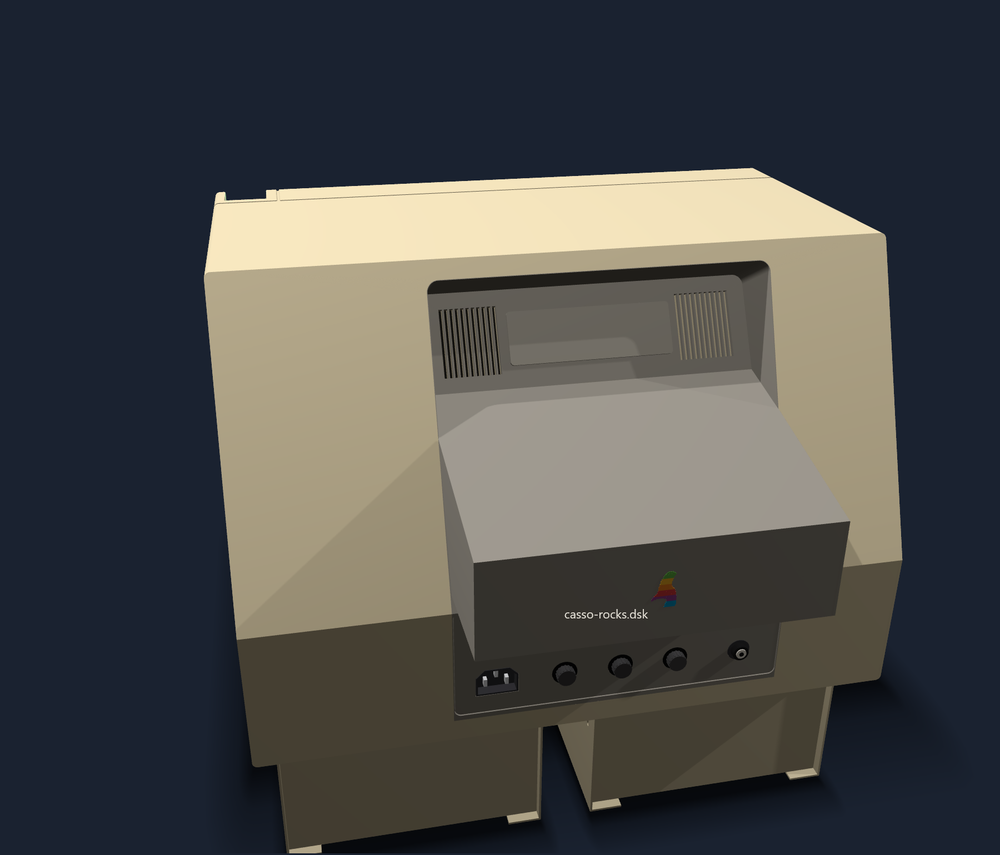
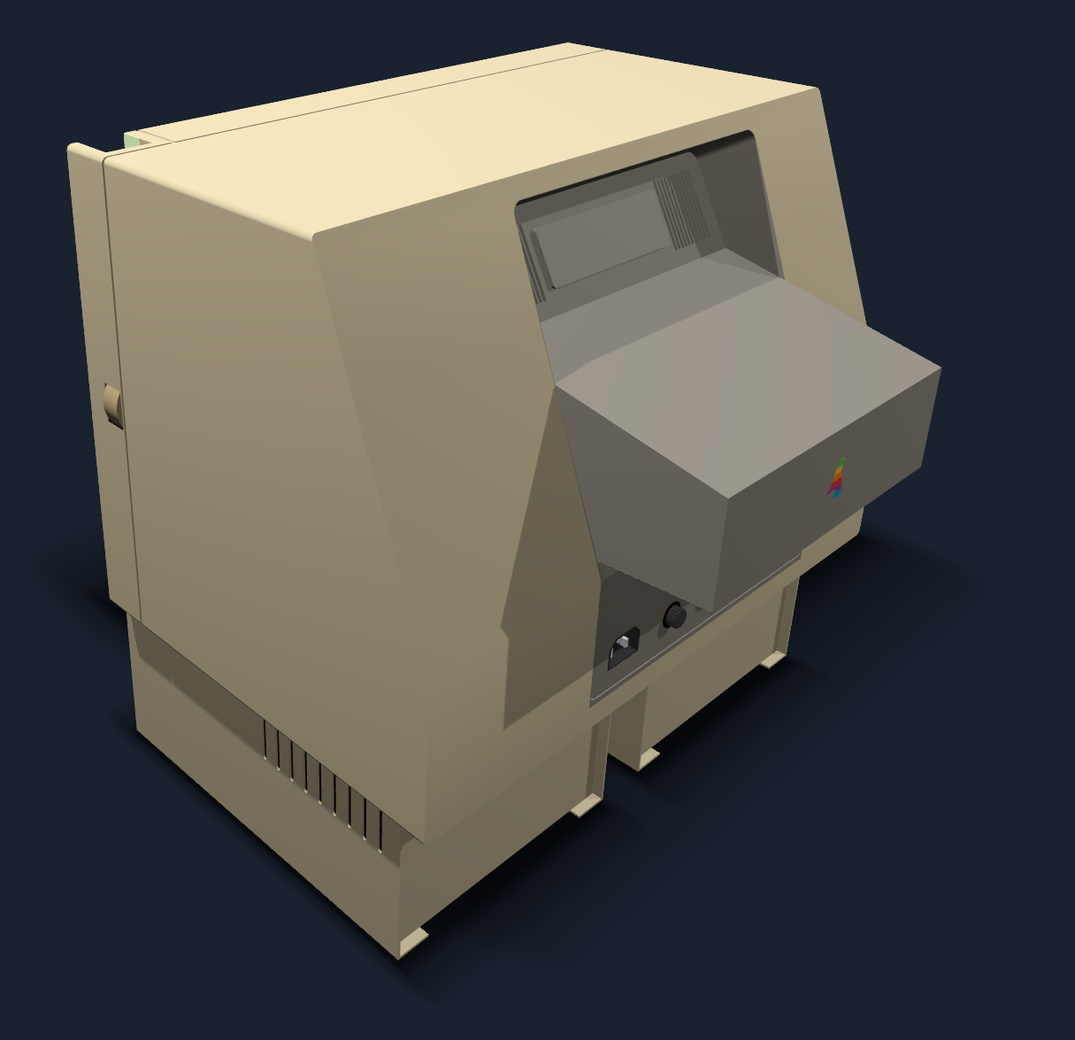
docs(readme): regenerate the desk-scene screenshots on the current build
The first two demo images become skeuomorphic desk-scene captures: the color
cassowary on an Apple //e with its Monitor II switched to color, and the
monochrome cassowary on an Apple //c green screen. A note records that Monitor
II is a green phosphor by default and has been overridden to color here.

The desk-scene shots (scene, angle, rear, panel, //c stack) are recaptured on
the 3D build. The old ones dated to before the drive-name labels were attached
to the drives, so a rear view printed casso-rocks.dsk across the back of the
monitor; the fronts are clean now, and the rear and panel shots load no disk
so no label projects onto the hardware.

diff --git a/README.md b/README.md
@@ -26,15 +26,17 @@ On the horizon:
 - Atari 400/800
 - Commodore VIC-20, 64
 
-The [casso-rocks demo disk](Apple2/Demos) asks which monitor you have and shows
-the cassowary drawn for it. Same photo, same Apple //e core, encoded twice —
-because the same DHGR framebuffer means different things to a color monitor and
-a monochrome one, and an image authored for either reads as noise on the other:
+The [casso-rocks demo disk](Apple2/Demos) asks which monitor you have and draws
+the cassowary for it. The same DHGR framebuffer means different things to a color
+screen and a monochrome one, and an image authored for either reads as noise on
+the other, so the demo ships both and your answer picks one:
 
 <table align="center" width="100%"><tr>
-  <td valign="top" width="50%"><img src="Assets/demo-dhgr-color.png" alt="The casso-rocks demo on a color monitor: the cassowary in 16-color DHGR, 140 color cells across" width="100%" /></td>
-  <td valign="top" width="50%"><img src="Assets/demo-dhgr-mono.png" alt="The same disk on a green monochrome monitor: the cassowary dithered to one bit across all 560 dots" width="100%" /></td>
+  <td valign="top" width="50%"><img src="Assets/demo-dhgr-color.png" alt="The casso-rocks demo on an Apple //e with Monitor II set to color: the cassowary in 16-color DHGR, 140 color cells across" width="100%" /></td>
+  <td valign="top" width="50%"><img src="Assets/demo-dhgr-mono.png" alt="The same demo on an Apple //c green monochrome monitor: the cassowary dithered to one bit across all 560 dots" width="100%" /></td>
 </tr></table>
+
+<p align="center"><sub>Monitor II is a green-phosphor screen by default; on the //e above it has been switched to color so the 16-color encoding reads as color. The //c keeps its period green monochrome.</sub></p>
 
 `CassoCli` accelerates the retro development loop, with no third-party tool in it:
 
